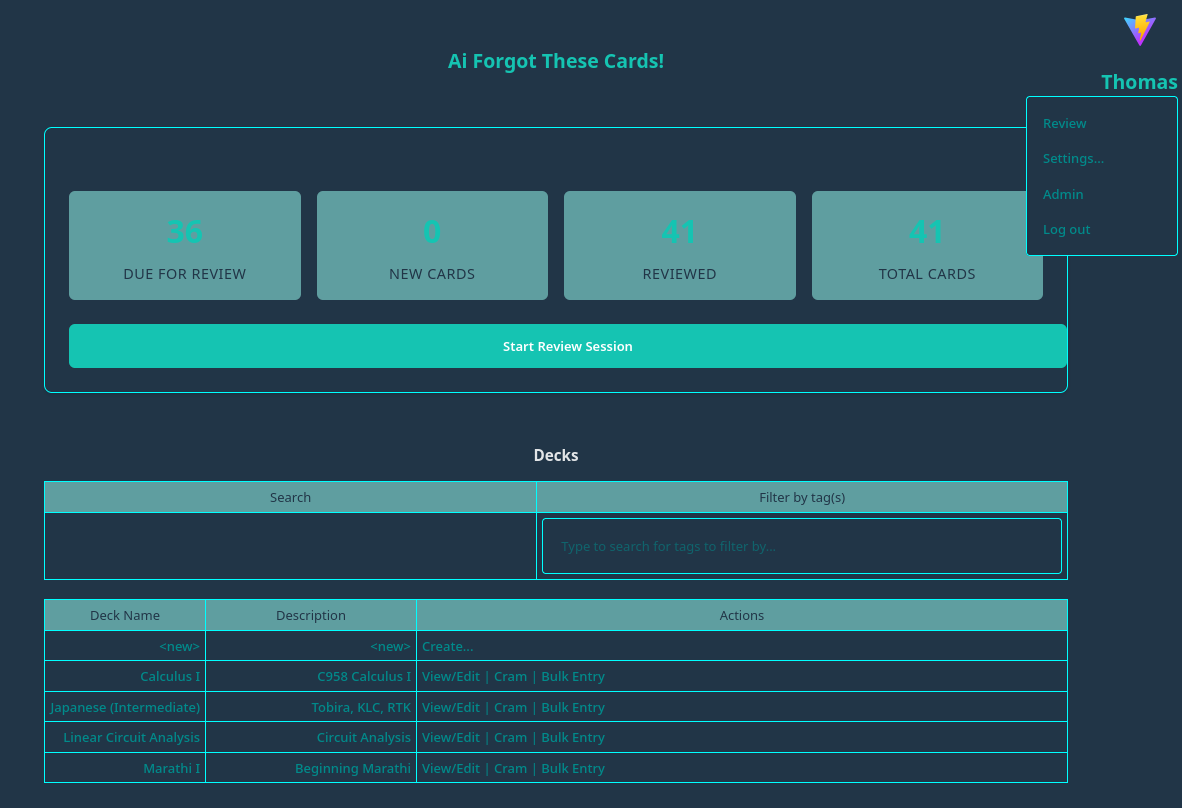
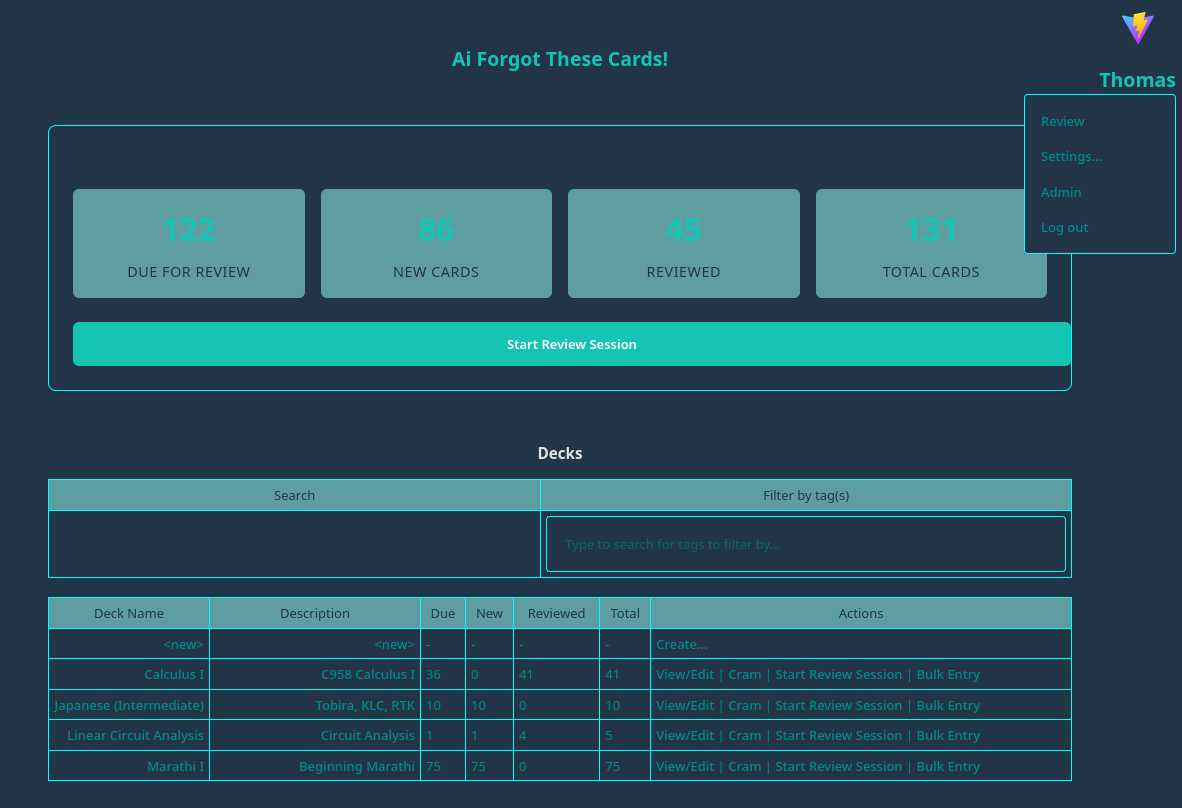
feat: Enhance SRS statistics API to support deck-specific queries and update README with new features

diff --git a/src/main/java/com/darkmusic/aiforgotthesecards/web/controller/SrsController.java b/src/main/java/com/darkmusic/aiforgotthesecards/web/controller/SrsController.java
@@ -239,7 +239,7 @@ public class SrsController {
      * @return Statistics about the user's SRS progress
      */
     @GetMapping("/api/srs/stats")
-    public SrsStatsResponse getStats(Authentication authentication) {
+    public SrsStatsResponse getStats(Authentication authentication, @RequestParam(required = false) Long deckId) {
         if (authentication == null || authentication.getName() == null) {
             return new SrsStatsResponse();
         }
@@ -252,20 +252,51 @@ public class SrsController {
         LocalDateTime now = LocalDateTime.now();
         List<UserCardSrs> allSrsRecords = userCardSrsDAO.findByUser(user);
 
-        long totalCards = cardDAO.countByDeckUser(user);
-        long reviewedCards = allSrsRecords.size();
-        long newCards = totalCards - reviewedCards;
-        long dueCards = allSrsRecords.stream()
-                .filter(srs -> srs.getNextReviewAt().isBefore(now) || srs.getNextReviewAt().isEqual(now))
-                .count();
-
         SrsStatsResponse stats = new SrsStatsResponse();
-        stats.setTotalCards(totalCards);
-        stats.setReviewedCards(reviewedCards);
-        stats.setNewCards(newCards);
-        stats.setDueCards(dueCards + newCards); // All new cards are also "due"
 
-        return stats;
+        if (deckId != null) {
+            Deck deck = deckDAO.findById(deckId).orElse(null);
+            if (deck == null || !deck.getUser().getId().equals(user.getId())) {
+                return new SrsStatsResponse();
+            }
+
+            // Collect card IDs for this deck
+            java.util.List<Card> deckCards = (java.util.List<Card>) cardDAO.findByDeck(deck);
+            java.util.Set<Long> deckCardIds = new java.util.HashSet<>();
+            for (Card c : deckCards) {
+                if (c.getId() != null) deckCardIds.add(c.getId());
+            }
+
+            long totalCards = deckCards.size();
+            long reviewedCards = allSrsRecords.stream()
+                    .filter(srs -> srs.getCard() != null && deckCardIds.contains(srs.getCard().getId()))
+                    .count();
+            long newCards = totalCards - reviewedCards;
+            long dueReviewed = allSrsRecords.stream()
+                    .filter(srs -> srs.getCard() != null && deckCardIds.contains(srs.getCard().getId()))
+                    .filter(srs -> srs.getNextReviewAt().isBefore(now) || srs.getNextReviewAt().isEqual(now))
+                    .count();
+
+            stats.setTotalCards(totalCards);
+            stats.setReviewedCards(reviewedCards);
+            stats.setNewCards(newCards);
+            stats.setDueCards(dueReviewed + newCards); // All new cards are also "due"
+            return stats;
+        } else {
+            long totalCards = cardDAO.countByDeckUser(user);
+            long reviewedCards = allSrsRecords.size();
+            long newCards = totalCards - reviewedCards;
+            long dueCards = allSrsRecords.stream()
+                    .filter(srs -> srs.getNextReviewAt().isBefore(now) || srs.getNextReviewAt().isEqual(now))
+                    .count();
+
+            stats.setTotalCards(totalCards);
+            stats.setReviewedCards(reviewedCards);
+            stats.setNewCards(newCards);
+            stats.setDueCards(dueCards + newCards); // All new cards are also "due"
+
+            return stats;
+        }
     }
 
     // Inner class for stats response

diff --git a/README.md b/README.md
@@ -44,6 +44,8 @@ Features:
   - Markdown support for card content
   - Bulk entry/updating of cards
 - Spaced Repetition System (SRS) for reviewing cards
+- Deck-level SRS overview in the deck list (Due / New / Reviewed / Total)
+- Start a per-deck SRS Review Session directly from the deck list
 - Cram mode for studying all cards in a deck without affecting SRS scheduling
 - LaTeX support for rendering mathematical expressions
 
@@ -146,11 +148,13 @@ Here are some screenshots of the application:
 The application provides two distinct study modes:
 
 ### Review Mode (SRS-based)
-- Accessed via the main "Review" navigation
+- Accessed via the main "Review" navigation for an all-decks review
 - Shows only cards that are due for review based on the Spaced Repetition System algorithm
 - Includes quality rating buttons (Again, Hard, Good, Easy) after revealing the answer
 - Ratings update the SRS schedule, adjusting when each card will next appear
 - Ideal for efficient long-term retention and optimized study sessions
+
+You can also start a deck-specific review session from the Decks table using the "Start Review Session" action next to a deck. This filters the queue to only cards from that deck that are due (including new/unreviewed cards).
 
 ### Cram Mode (All cards)
 - Accessed via the "Cram" link next to each deck in the deck list
@@ -159,6 +163,15 @@ The application provides two distinct study modes:
 - **Does not update** SRS schedules - perfect for pre-exam cramming or casual review
 - No quality ratings required - just flip through the cards at your own pace
 - Useful for getting familiar with new decks or intensive review before tests
+
+### Deck list SRS columns
+- The Decks table shows SRS counts per deck:
+   - Due: cards due now (includes new cards)
+   - New: cards in the deck that have never been reviewed
+   - Reviewed: cards in the deck that have an existing SRS record
+   - Total: total cards in the deck
+
+These counts help you decide whether to review everything due or focus on a specific deck.
 
 ## Getting Started
 
@@ -304,6 +317,11 @@ make import-db
 ## Swagger Endpoint
 
 - The Swagger UI endpoint is available here: [Swagger UI](http://localhost:8080/swagger-ui/index.html)
+
+### API notes
+- SRS statistics: `GET /api/srs/stats` now accepts an optional `deckId` query parameter.
+   - Without `deckId`, returns aggregate stats across all decks for the authenticated user.
+   - With `deckId`, returns stats scoped to that specific deck (Due/New/Reviewed/Total).
 
 ## Roadmap
 
